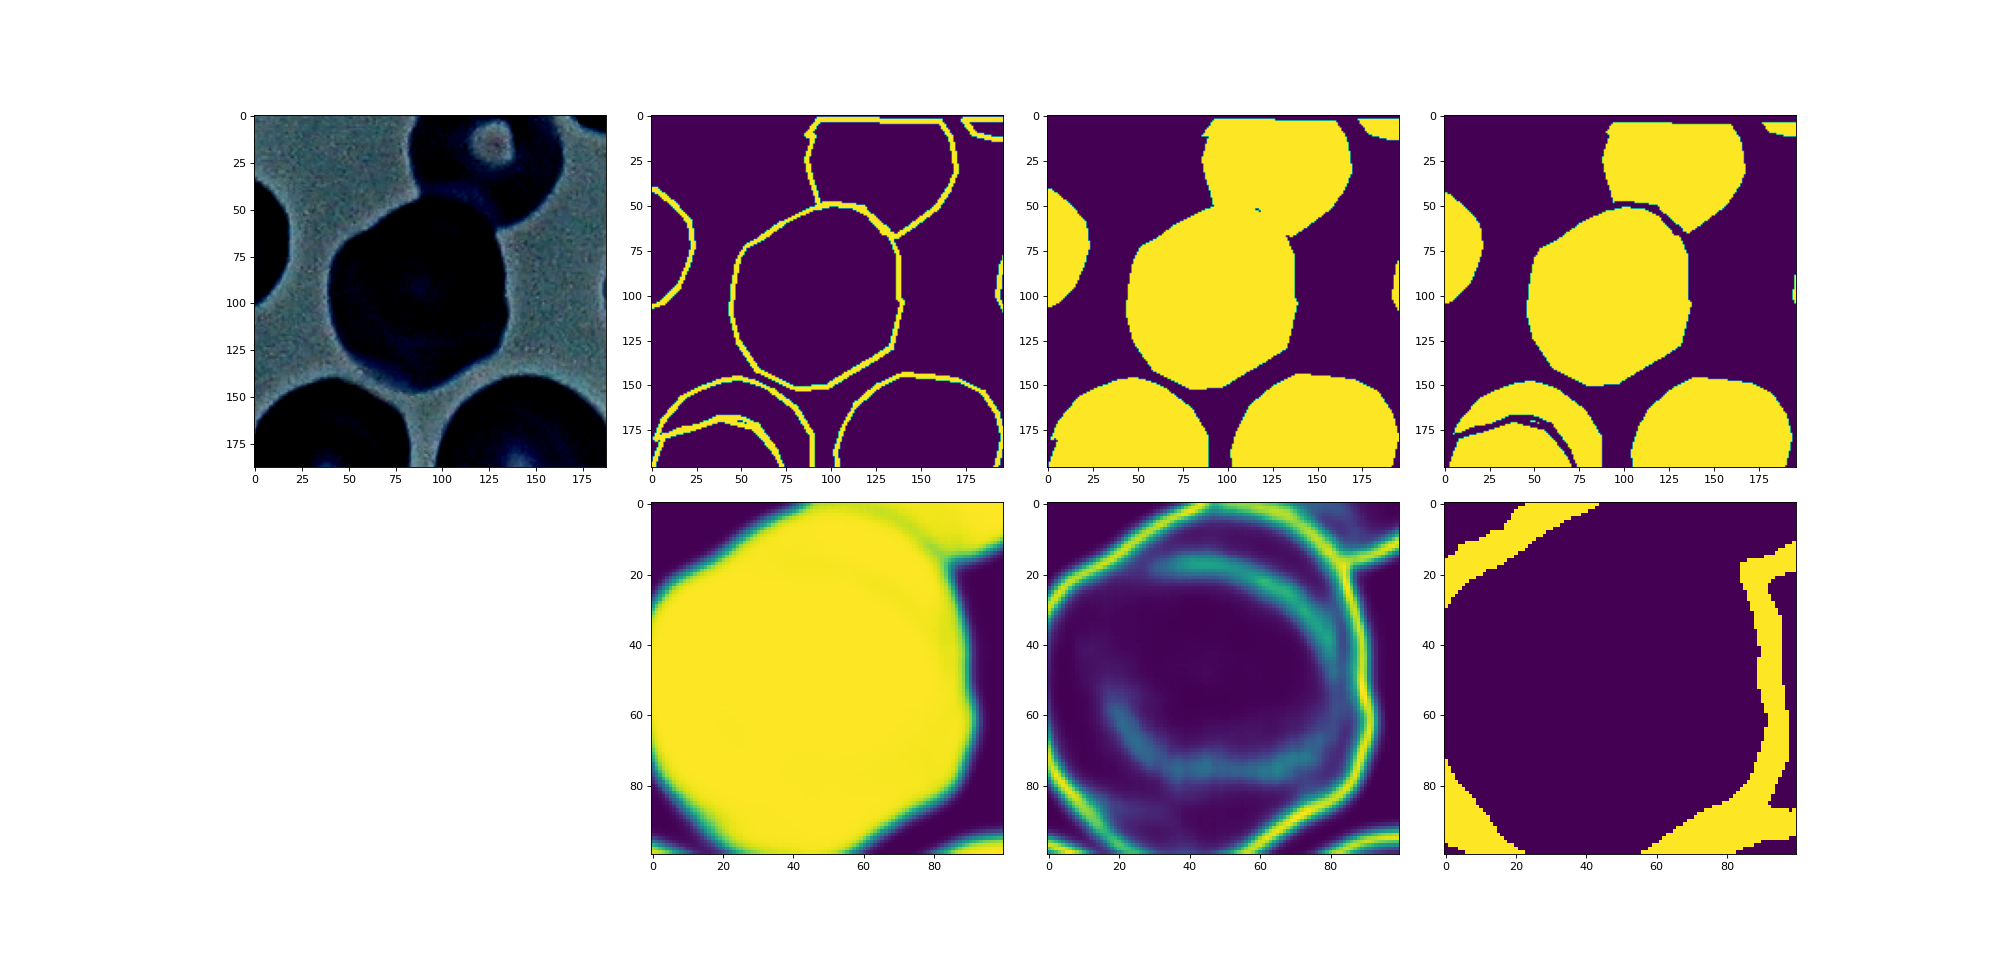
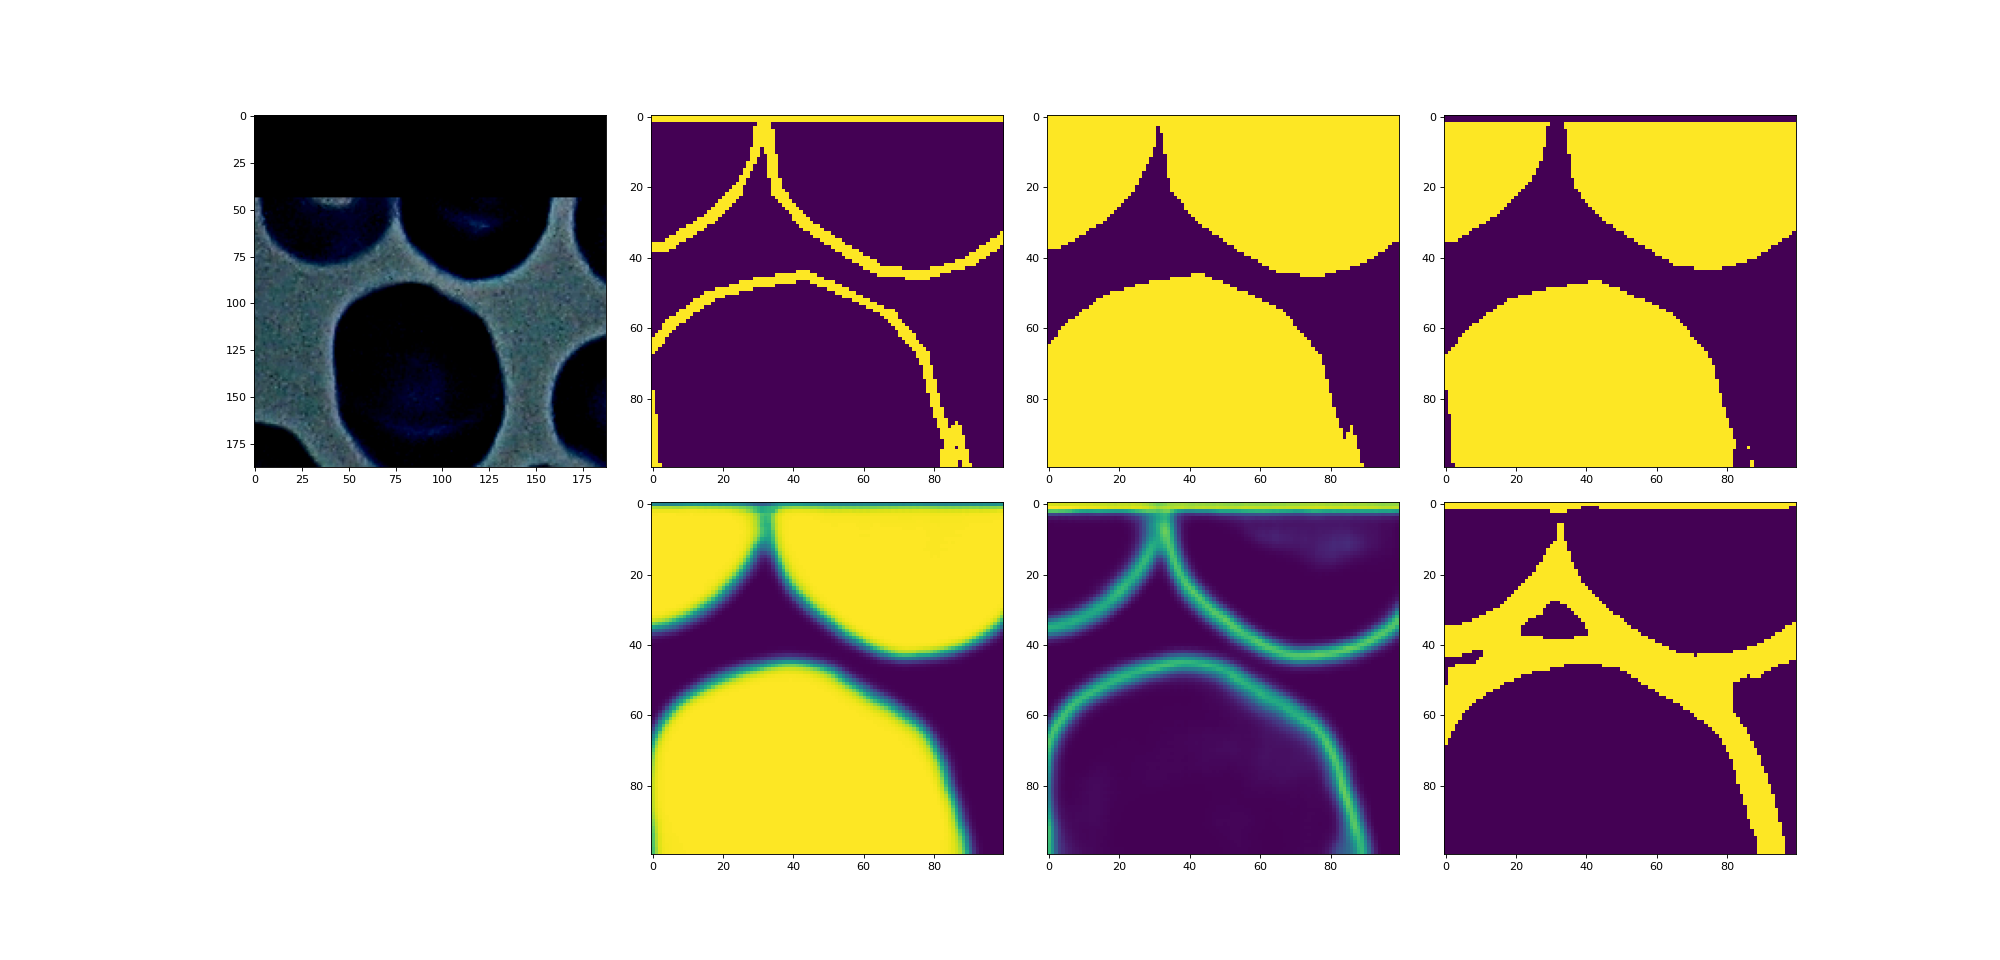
Updated plotting config!

Changed region(s): [[0.124, 0.0938, 0.899, 0.9062]]

diff --git a/src/run.py b/src/run.py
@@ -25,7 +25,7 @@ def run_training(model_name):
                     workers=8)
 
     imgs, mask, edge = data.load_data(test_img_files)
-    img_chips, mask_chips, edge_chips = data.test_chips(imgs, mask, edge=edge, padding=200, input_size=188, output_size=196)
+    img_chips, mask_chips, edge_chips = data.test_chips(imgs, mask, edge=edge)
 
     index = 3
 

diff --git a/src/data.py b/src/data.py
@@ -228,8 +228,8 @@ def train_generator(imgs, mask, edge,
 def test_chips(imgs, mask,
                edge=None,
                padding=200,
-               input_size=380,
-               output_size=196):
+               input_size=188,
+               output_size=100):
     img_chips = []
     mask_chips = []
     if edge is not None:
